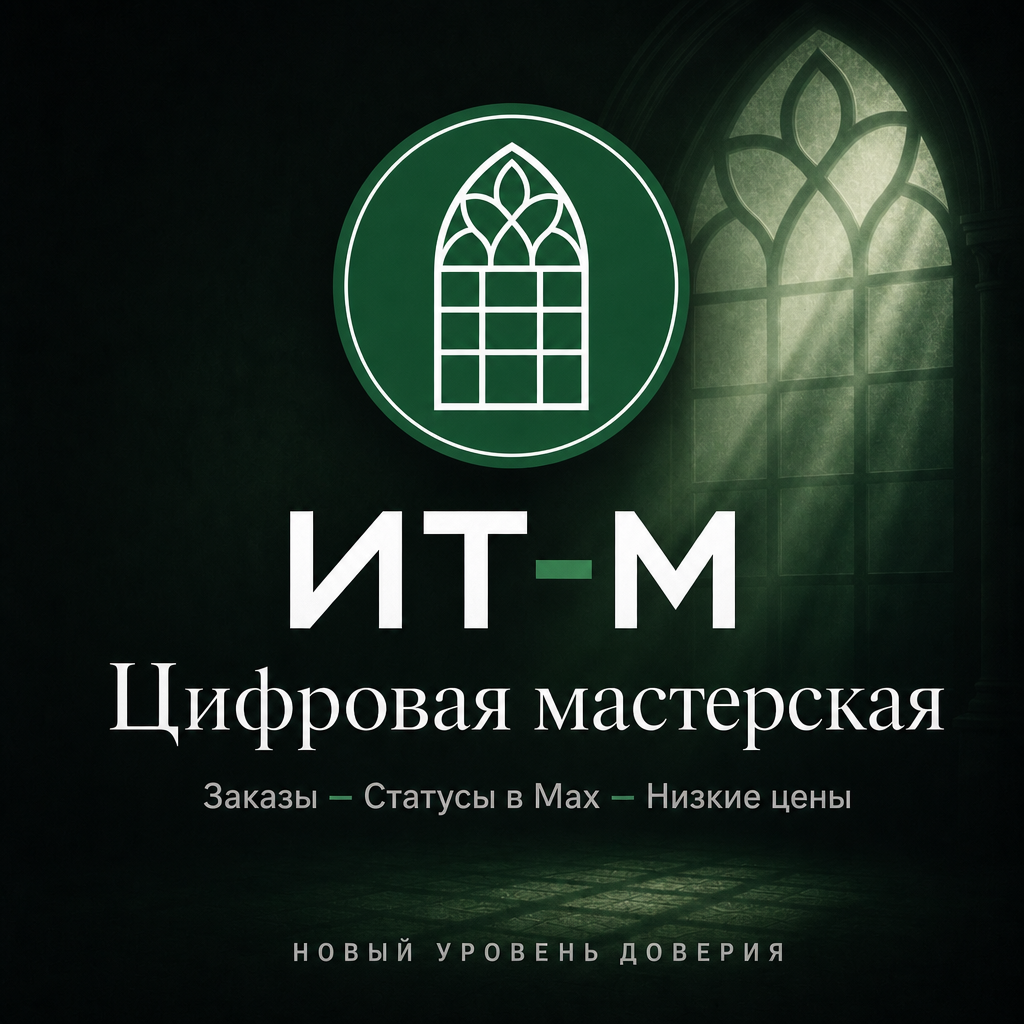
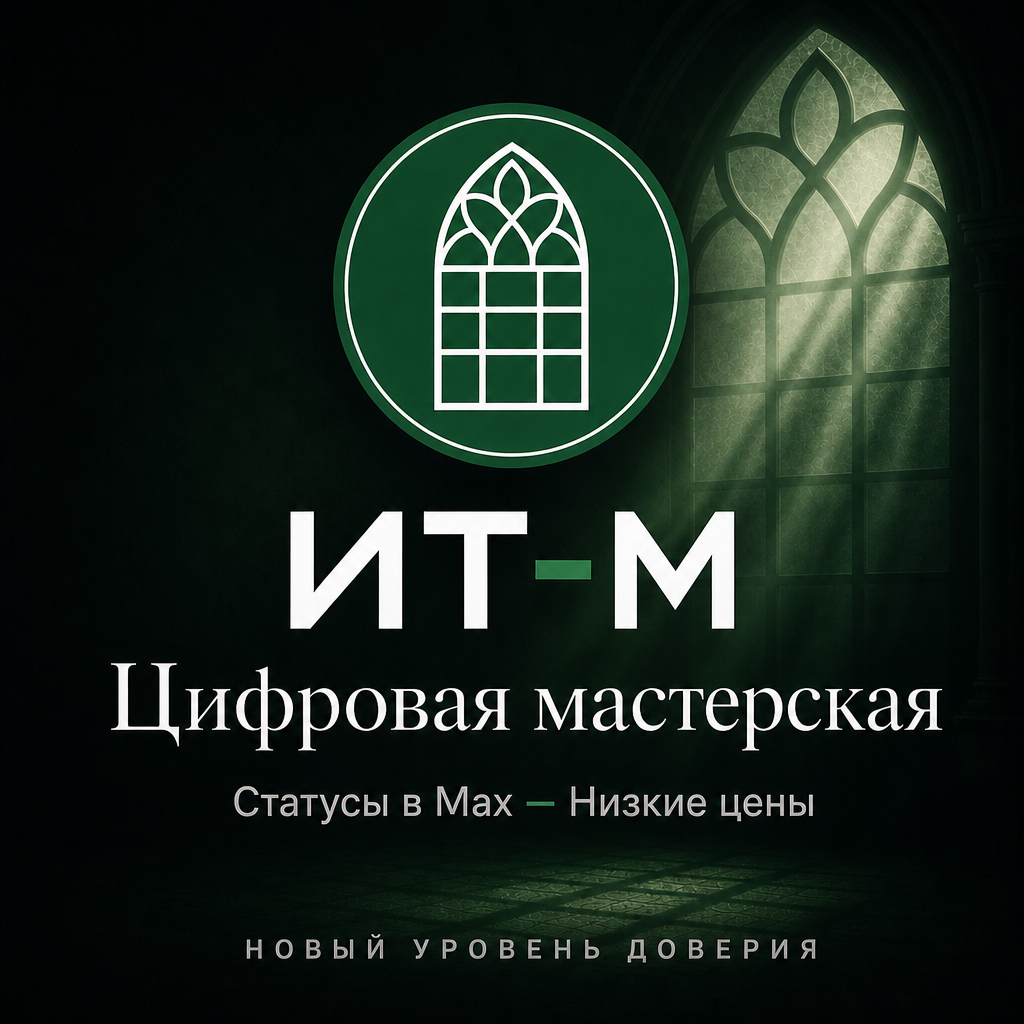
Shorten promo line to Max statuses and low prices.

diff --git a/workshop/static/workshop/promo/itm-crm-promo.html b/workshop/static/workshop/promo/itm-crm-promo.html
@@ -279,7 +279,7 @@
       <h1 class="brand">ИТ<span>-</span>М</h1>
       <div class="line" aria-hidden="true"></div>
       <p class="headline">Цифровая мастерская</p>
-      <p class="support">Заказы — Статусы в Max — Низкие цены</p>
+      <p class="support">Статусы в Max — Низкие цены</p>
       <div class="footer-note">новый уровень доверия</div>
     </div>
   </section>
@@ -295,7 +295,7 @@
         <h1 class="brand">ИТ<span>-</span>М</h1>
         <div class="line" aria-hidden="true"></div>
         <p class="headline">Цифровая мастерская</p>
-        <p class="support">Заказы — Статусы в Max — Низкие цены</p>
+        <p class="support">Статусы в Max — Низкие цены</p>
       </div>
       <div class="footer-note">новый уровень доверия</div>
     </div>
